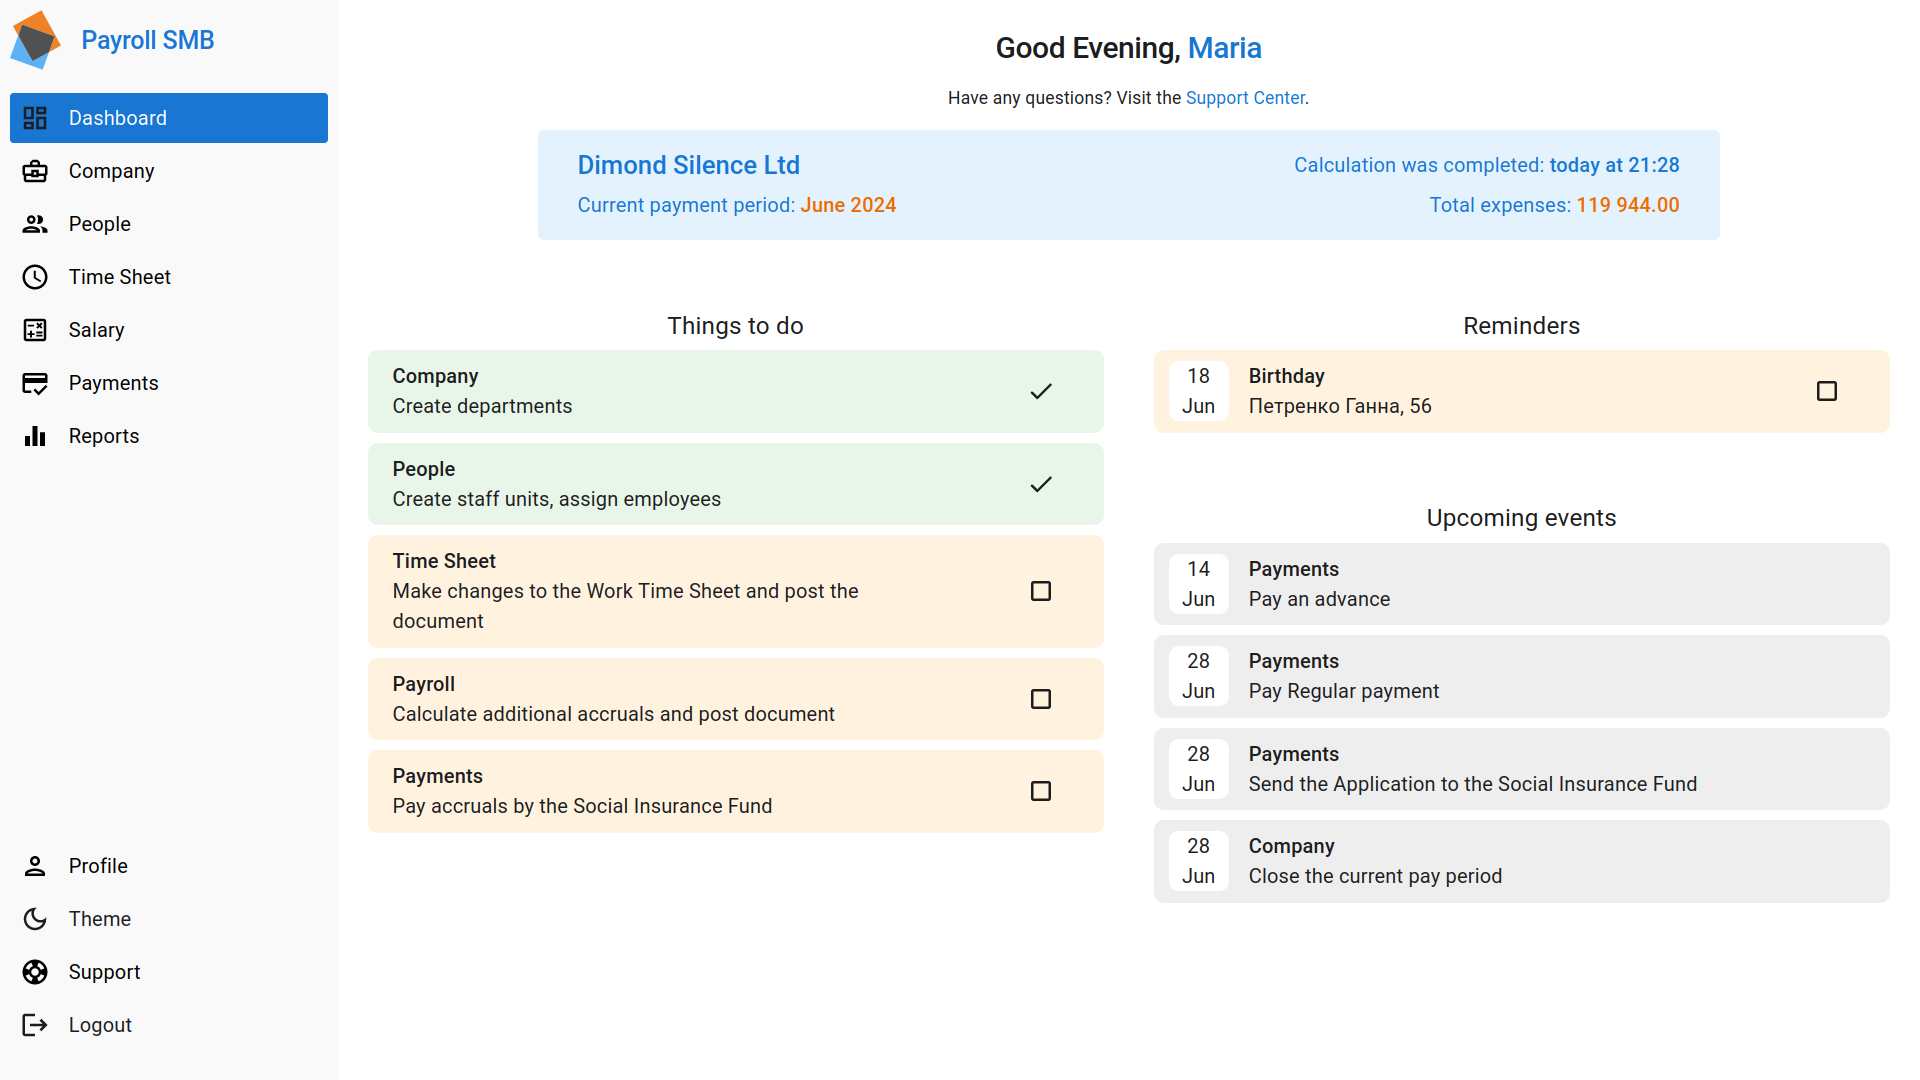
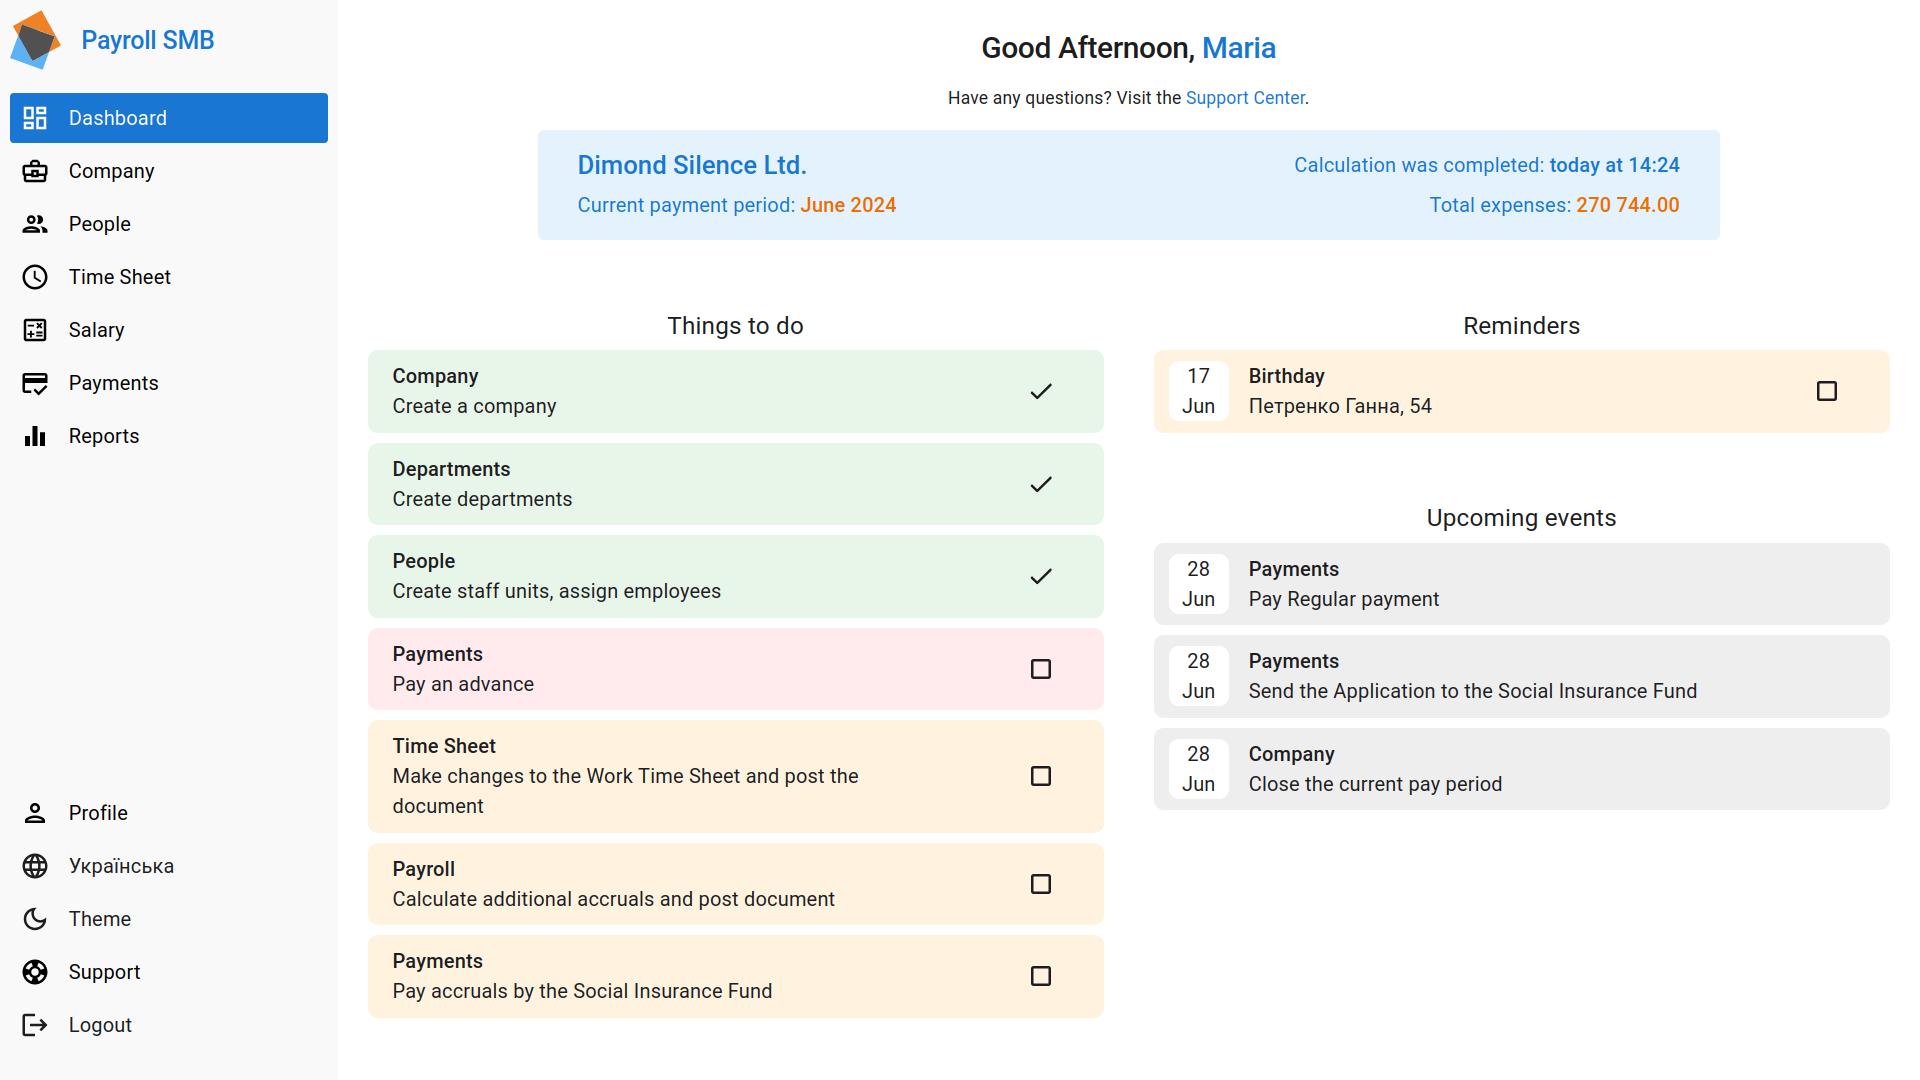
chore: update screeenshots & remove toggle language button from main menu

diff --git a/apps/web/src/components/layout/MainLayout.tsx b/apps/web/src/components/layout/MainLayout.tsx
@@ -1,4 +1,4 @@
-import { DarkModeOutlined, Language, LightModeOutlined } from '@mui/icons-material';
+import { DarkModeOutlined, LightModeOutlined } from '@mui/icons-material';
 import Logout from '@mui/icons-material/Logout';
 import PersonOutlined from '@mui/icons-material/PersonOutlined';
 import Support from '@mui/icons-material/Support';
@@ -33,9 +33,9 @@ export default function MainLayout() {
         setCompactView(!compactView);
     };
 
-    const onToggleLanguage = () => {
-        toggleLanguage();
-    };
+    // const onToggleLanguage = () => {
+    //     toggleLanguage();
+    // };
 
     function onLogout() {
         logout();
@@ -104,13 +104,13 @@ export default function MainLayout() {
                                 icon={<PersonOutlined />}
                             />
 
-                            <ListItemButton
+                            {/* <ListItemButton
                                 onClick={() => {
                                     onToggleLanguage();
                                 }}
                                 primary={locale.language === 'en' ? 'Українська' : 'English'}
                                 icon={<Language />}
-                            />
+                            /> */}
 
                             <ListItemButton
                                 onClick={switchThemeMode}
